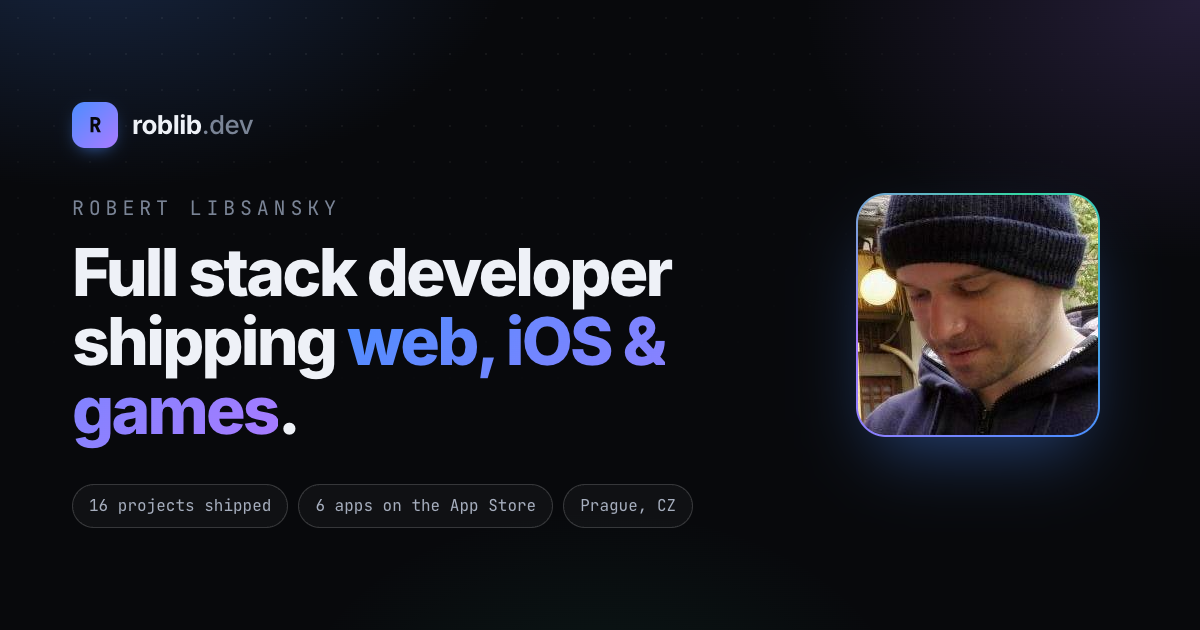
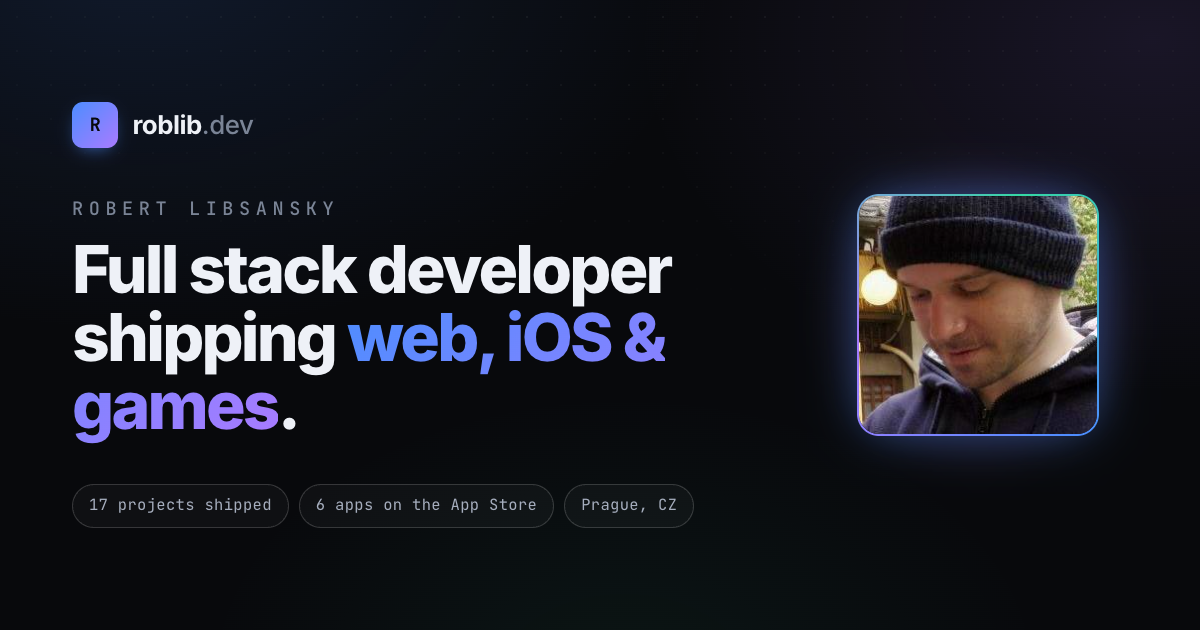
Add Sands of Saqqara

diff --git a/index.html b/index.html
@@ -11,7 +11,7 @@
     </script>
     <meta
       name="description"
-      content="Full stack developer in Prague building React and Node.js web apps, native iOS apps in Swift, and games. 16 shipped projects, 6 apps on the App Store."
+      content="Full stack developer in Prague building React and Node.js web apps, native iOS apps in Swift, and games. 17 shipped projects, 6 apps on the App Store."
     />
     <meta name="author" content="Robert Libsansky" />
     <meta name="robots" content="index, follow" />
@@ -27,7 +27,7 @@
     />
     <meta
       property="og:description"
-      content="Full stack developer in Prague. React and Node.js on the web, Swift on iOS, and games on both. 16 shipped projects, 6 apps on the App Store."
+      content="Full stack developer in Prague. React and Node.js on the web, Swift on iOS, and games on both. 17 shipped projects, 6 apps on the App Store."
     />
     <meta property="og:image" content="https://roblib.dev/og-image.png" />
     <meta property="og:image:type" content="image/png" />
@@ -280,6 +280,13 @@
             d="M104 32H408a72 72 0 0 1 72 72V408a72 72 0 0 1-72 72H104a72 72 0 0 1-72-72V104a72 72 0 0 1 72-72zM96 128L164 384H214L256 250L298 384H348L416 128H362L322 300L280 160H232L190 300L150 128z"
           />
         </symbol>
+        <symbol id="i-pyramid" viewBox="0 0 512 512">
+          <circle cx="408" cy="92" r="52" />
+          <rect x="32" y="392" width="448" height="72" rx="10" />
+          <rect x="88" y="308" width="336" height="72" rx="10" />
+          <rect x="144" y="224" width="224" height="72" rx="10" />
+          <rect x="200" y="140" width="112" height="72" rx="10" />
+        </symbol>
         <symbol id="i-mail" viewBox="0 0 512 512">
           <path
             d="M48 64C21.5 64 0 85.5 0 112c0 15.1 7.1 29.3 19.2 38.4L236.8 313.6c11.4 8.5 27 8.5 38.4 0L492.8 150.4c12.1-9.1 19.2-23.3 19.2-38.4c0-26.5-21.5-48-48-48H48zM0 176V384c0 35.3 28.7 64 64 64H448c35.3 0 64-28.7 64-64V176L294.4 339.2c-22.8 17.1-54 17.1-76.8 0L0 176z"
@@ -366,12 +373,12 @@
           <div class="hero-content">
             <a
               class="status"
-              href="https://apps.apple.com/cz/app/wordwander-word-game-no-ads/id6831251198"
+              href="https://roblib.itch.io/sands-of-saqqara"
               target="_blank"
               rel="noopener"
             >
               <span class="status-dot" aria-hidden="true"></span>
-              Latest release — Wordwander
+              Latest release — Sands of Saqqara
               <svg class="icon" aria-hidden="true"><use href="#i-arrow" /></svg>
             </a>
 
@@ -404,7 +411,7 @@
 
             <div class="hero-stats">
               <div>
-                <div class="stat-num">16</div>
+                <div class="stat-num">17</div>
                 <div class="stat-label">Projects shipped</div>
               </div>
               <div>
@@ -698,8 +705,8 @@
               </div>
               <h3>Games</h3>
               <p>
-                Arcade, word, puzzle, board, card and stealth games for iOS,
-                desktop and the browser: SpriteKit and SwiftUI on Apple
+                Arcade, word, puzzle, board, card, stealth and platform games
+                for iOS, desktop and the browser: SpriteKit and SwiftUI on Apple
                 platforms, C and SDL3 on desktop, plain JavaScript and Canvas on
                 the web — no off-the-shelf game engine.
               </p>
@@ -1083,6 +1090,44 @@
           </header>
 
           <div class="games-grid">
+            <article class="card reveal" style="--h: 48">
+              <div class="cover">
+                <svg class="icon" aria-hidden="true">
+                  <use href="#i-pyramid" />
+                </svg>
+              </div>
+              <div class="card-body">
+                <h3>Sands of Saqqara</h3>
+                <p>
+                  A flip-screen platform adventure in the spirit of the 8-bit
+                  classics: 49 chambers of an Egyptian tomb joined into one map,
+                  eight chapters with their own rules and 48 hidden scarabs.
+                  Written in C against SDL3 — pixel art placed by hand, music
+                  from a small chip synthesiser, one program with no data
+                  files. Plays in the browser, with downloads for Windows, macOS
+                  and Linux.
+                </p>
+                <div class="tags">
+                  <span class="tag">C</span>
+                  <span class="tag">SDL3</span>
+                  <span class="tag">Platformer</span>
+                  <span class="tag">Chip music</span>
+                </div>
+                <a
+                  href="https://roblib.itch.io/sands-of-saqqara"
+                  target="_blank"
+                  rel="noopener"
+                  class="card-link"
+                  aria-label="Play Sands of Saqqara on itch.io"
+                >
+                  itch.io
+                  <svg class="icon" aria-hidden="true">
+                    <use href="#i-link" />
+                  </svg>
+                </a>
+              </div>
+            </article>
+
             <article class="card reveal" style="--h: 245">
               <div class="cover">
                 <svg class="icon" aria-hidden="true">

diff --git a/og-image.html b/og-image.html
@@ -95,7 +95,7 @@
           <span class="grad-text">web, iOS &amp;<br />games</span>.
         </span>
         <div class="og-chips">
-          <span class="tag">16 projects shipped</span>
+          <span class="tag">17 projects shipped</span>
           <span class="tag">6 apps on the App Store</span>
           <span class="tag">Prague, CZ</span>
         </div>
